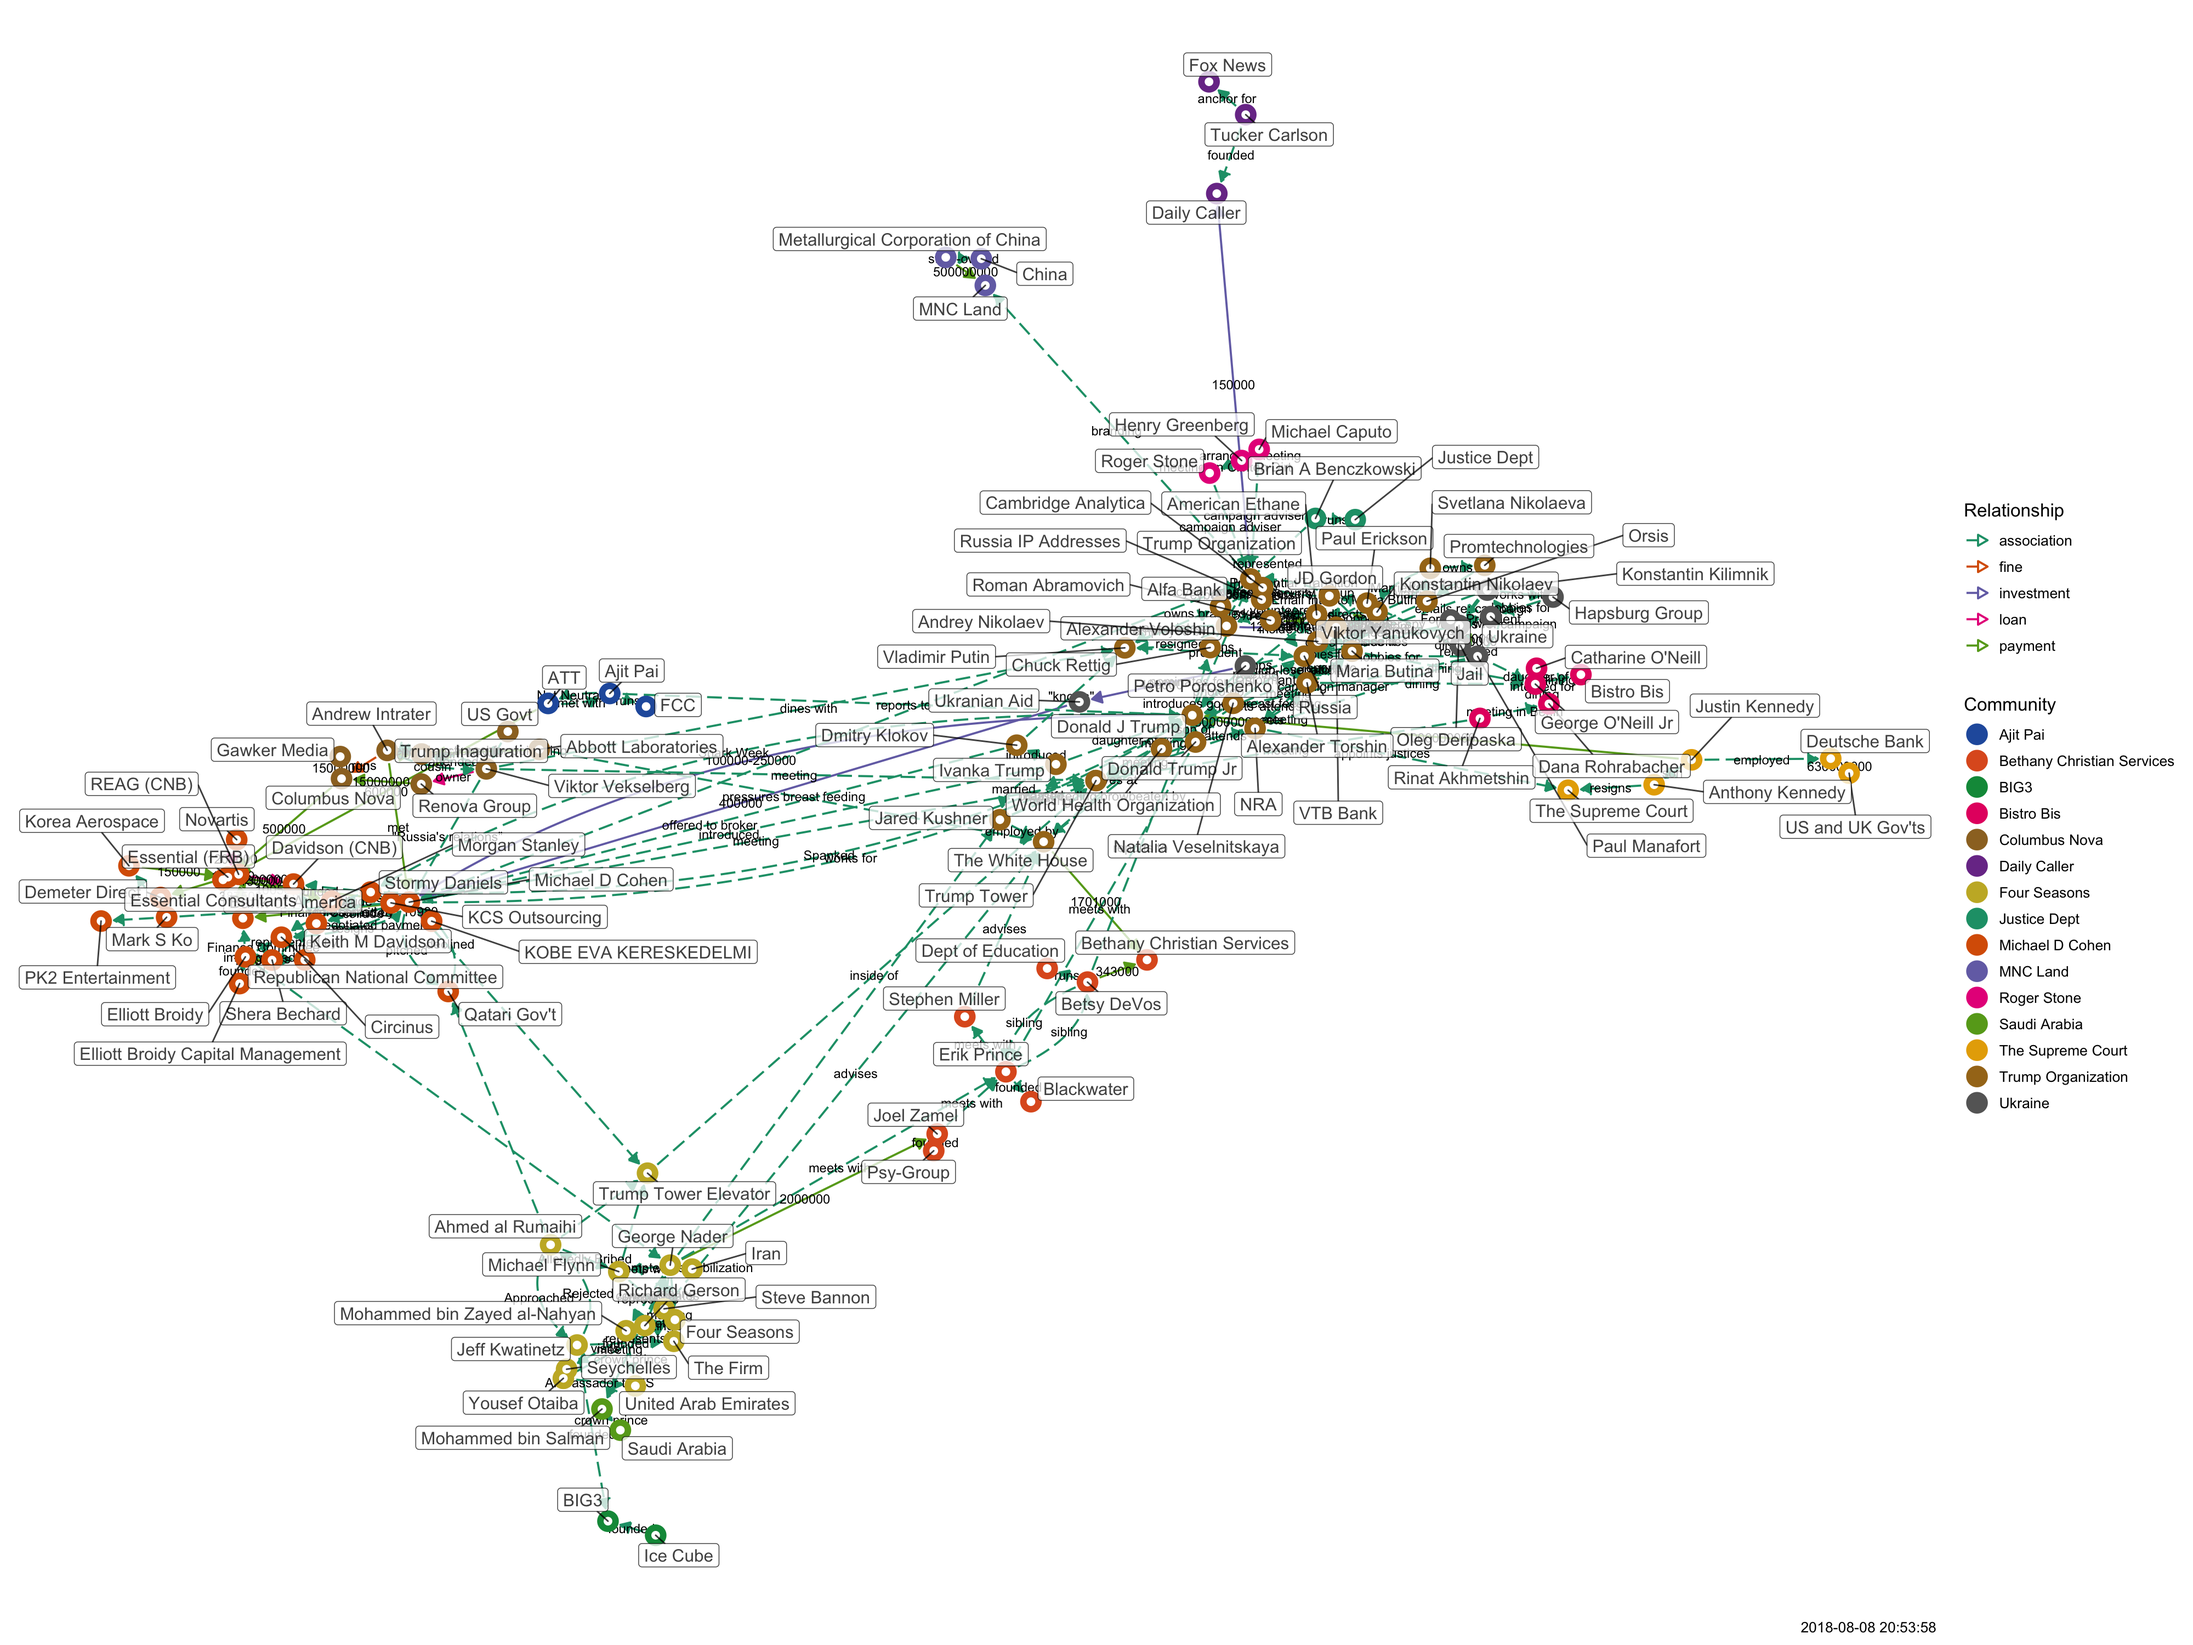
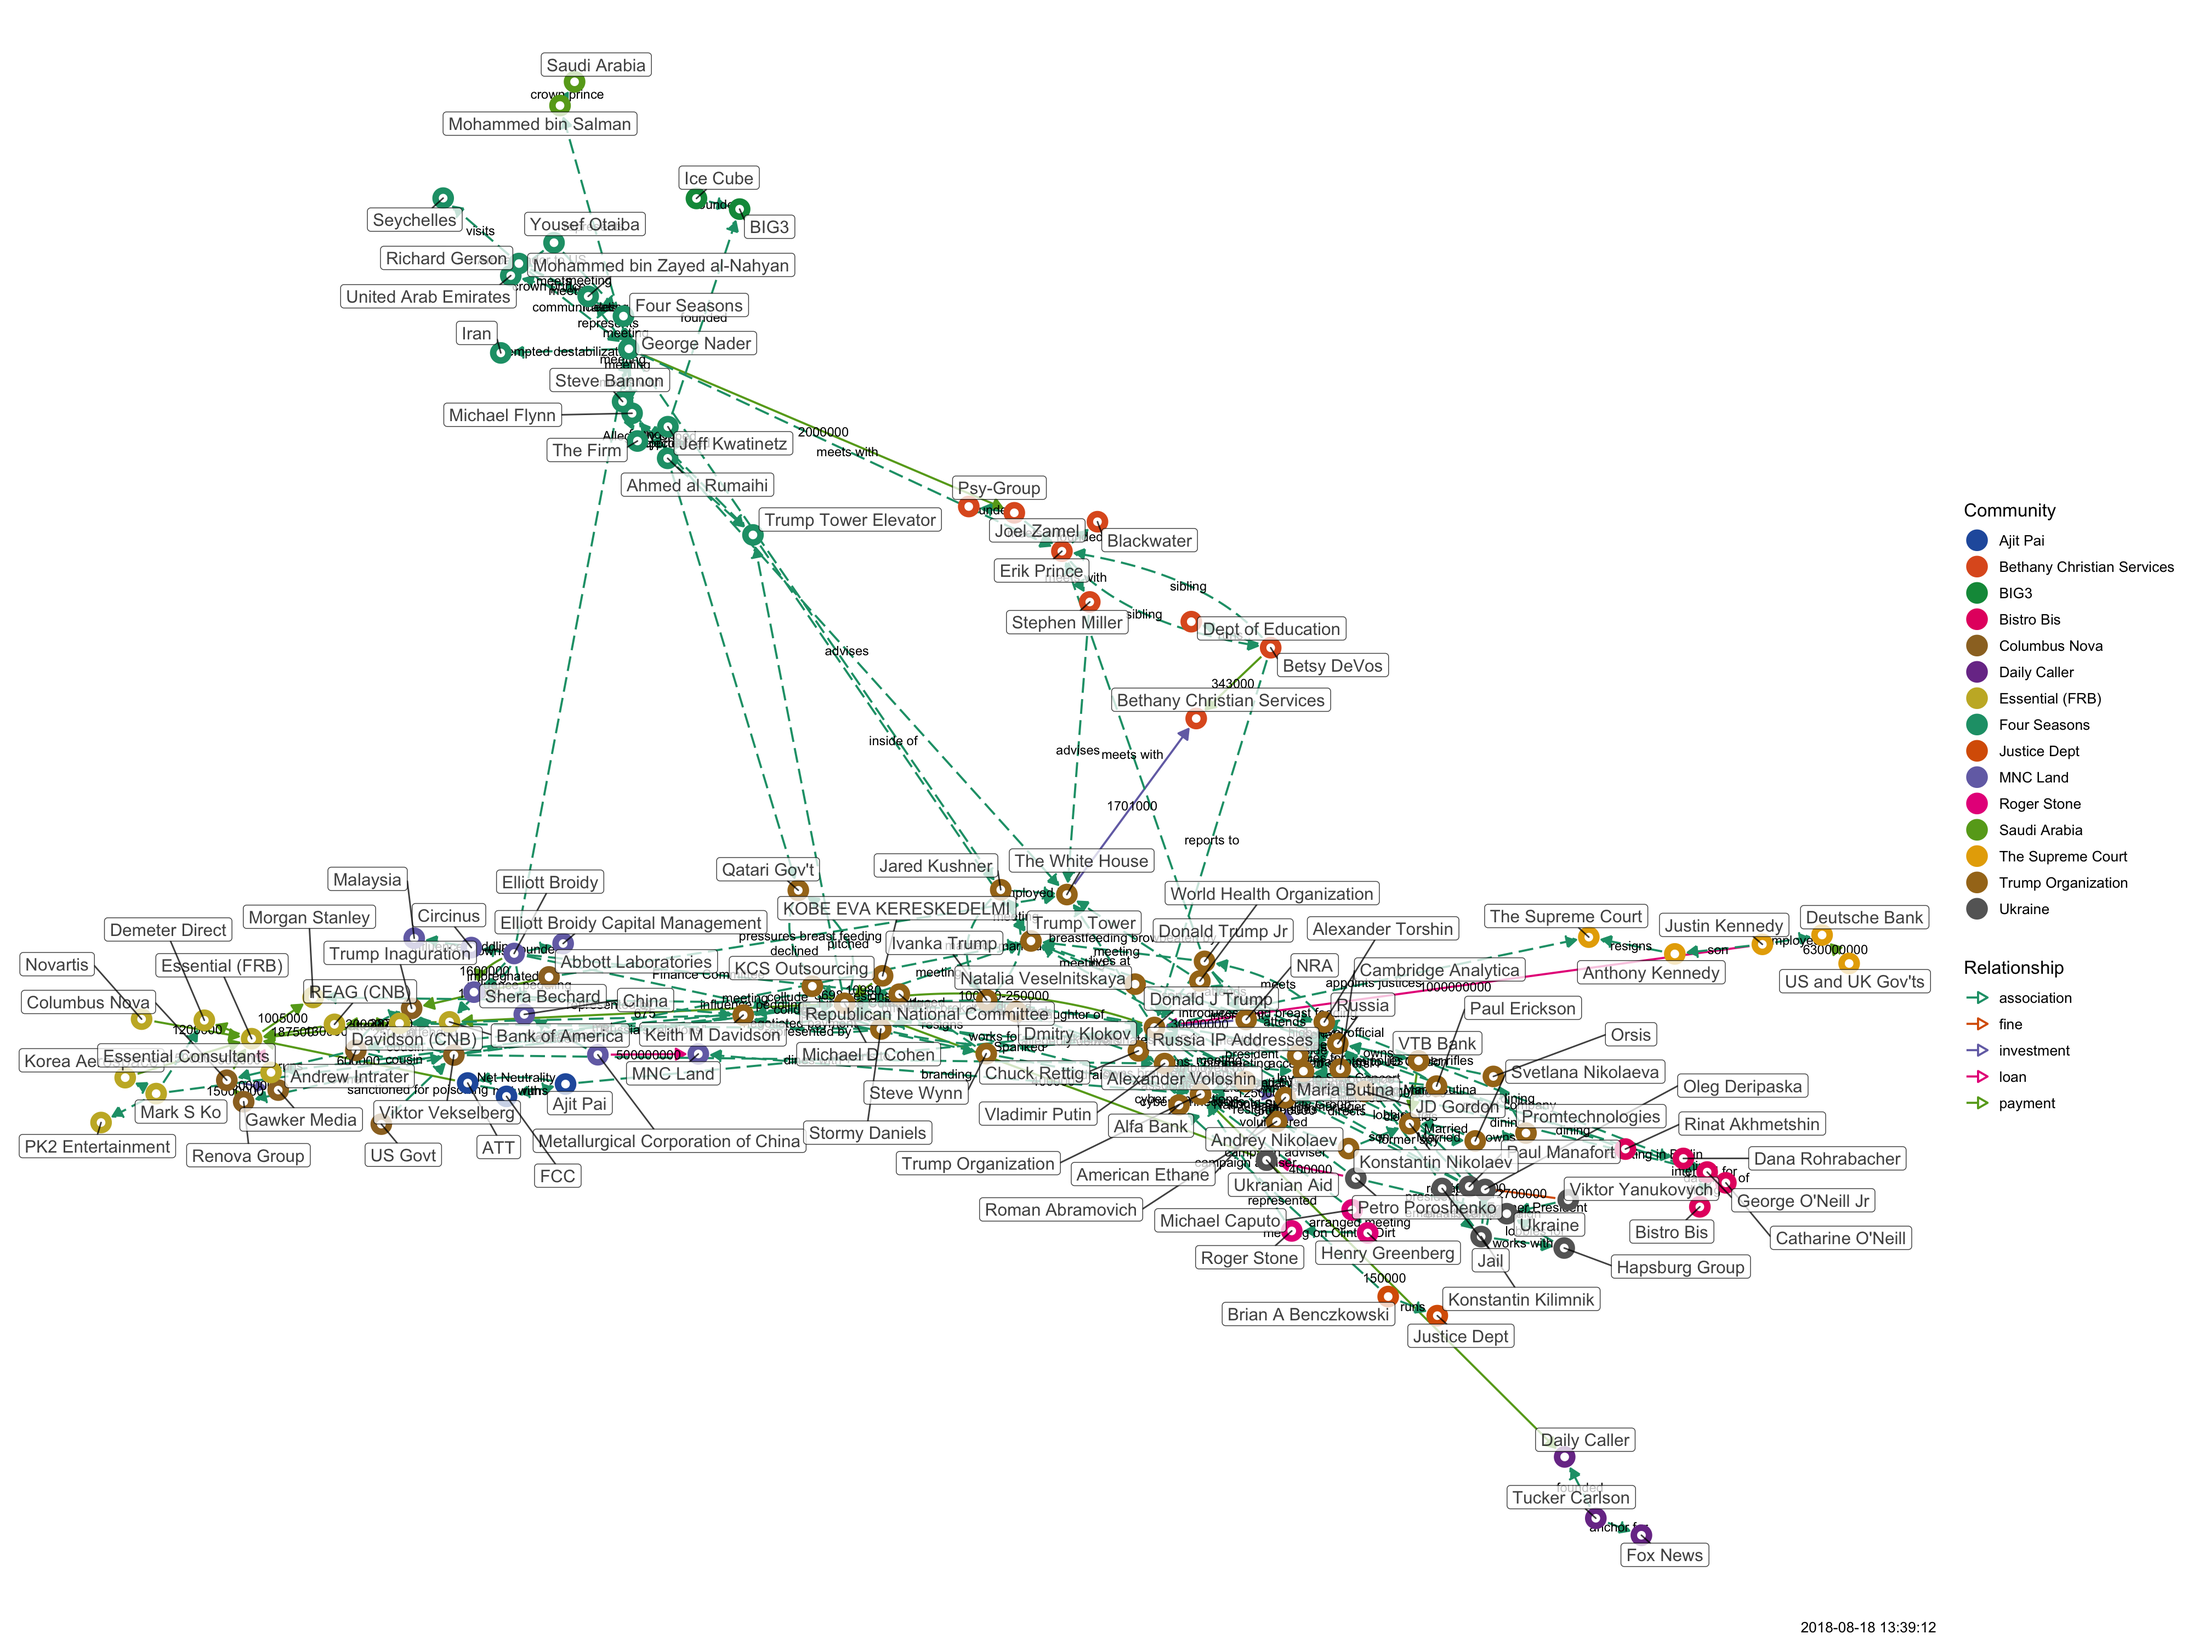
updated

diff --git a/docs/tangled-d3.html b/docs/tangled-d3.html
@@ -1143,11 +1143,11 @@ return function(){for(var n=0,e=0;e<t;++e)n+=Math.random();return n}},um=functio
 </head>
 <body style="background-color: white;">
 <div id="htmlwidget_container">
-<div id="htmlwidget-4a8c3ca96cf07145a3a7" class="forceNetwork html-widget" style="width:960px;height:500px;">
+<div id="htmlwidget-34fe78354e5b1a739de4" class="forceNetwork html-widget" style="width:960px;height:500px;">
 
 </div>
 </div>
-<script type="application/json" data-for="htmlwidget-4a8c3ca96cf07145a3a7">{"x":{"links":{"source":[0,1,2,3,4,5,6,6,7,8,9,9,9,10,11,12,13,14,15,16,17,18,19,20,21,21,22,23,24,25,26,27,28,29,9,16,2,2,30,2,30,30,2,31,16,32,33,33,30,8,8,8,8,16,7,7,33,16,16,34,34,34,34,7,16,35,36,36,37,38,37,37,39,36,36,40,40,40,3,39,8,10,10,41,41,42,42,16,43,44,44,10,45,46,47,10,10,48,49,47,50,46,10,10,45,47,5,5,5,25,15,20,20,16,30,30,51,52,52,52,52,10,49,35,39,53,53,42,42,54,54,33,33,16,32,55,56,55,57,58,57,55,57,57,45,41,59,60,60,28,19,57,55,7,61,16,62,11,11,7,0,63,64,7,1,1,65,23,66,66,58,67,25,68,69,69,70,7,70,70,71,70,72,71,45,45,71,71,71,70,73,72,74,74,59,75,8,76,32,77,77,77,72,72,77,78,78,79,79,80,81,81,78,82,64,83,84,83,85],"target":[86,65,86,9,21,87,9,88,16,76,89,90,91,46,7,16,16,9,92,4,9,7,57,26,89,9,6,65,87,93,16,94,57,78,95,95,6,16,22,30,2,86,86,30,7,89,89,32,58,96,97,98,4,91,24,33,7,25,96,90,99,16,14,25,51,51,51,37,36,100,101,100,101,43,35,3,7,102,40,24,10,39,41,24,42,41,7,43,16,93,103,47,47,47,104,49,48,105,106,50,24,107,35,108,7,5,47,109,7,92,110,7,111,112,112,16,112,113,49,10,114,114,114,114,114,114,106,16,54,16,58,32,16,32,16,56,111,57,64,64,7,64,115,112,112,112,112,112,64,111,64,55,19,61,25,96,116,62,94,116,24,24,63,65,58,58,1,65,67,117,67,25,67,25,68,64,7,70,64,71,64,72,70,45,71,18,18,64,75,75,75,75,75,73,73,118,76,32,16,70,25,25,70,77,70,70,79,78,82,64,78,25,65,80,29,84,85,25,25],"colour":["red","blue","red","red","red","red","red","blue","red","red","red","red","red","red","blue","red","red","red","blue","red","red","blue","blue","red","red","red","blue","blue","red","red","red","blue","red","blue","blue","blue","blue","blue","blue","blue","blue","blue","blue","blue","blue","blue","blue","blue","blue","blue","blue","blue","blue","blue","blue","blue","blue","blue","blue","blue","blue","blue","blue","blue","blue","blue","blue","blue","blue","blue","blue","blue","blue","blue","blue","blue","blue","blue","blue","blue","blue","blue","blue","blue","blue","blue","blue","blue","blue","blue","blue","blue","blue","blue","blue","blue","blue","blue","blue","blue","blue","blue","blue","blue","blue","blue","blue","blue","blue","blue","blue","blue","blue","blue","blue","blue","blue","blue","blue","blue","blue","blue","blue","blue","blue","blue","blue","blue","blue","blue","blue","blue","blue","blue","blue","blue","blue","blue","blue","blue","blue","blue","blue","blue","blue","blue","blue","blue","blue","blue","blue","blue","blue","blue","blue","blue","blue","blue","blue","blue","blue","blue","blue","blue","blue","blue","blue","blue","blue","blue","blue","blue","blue","blue","blue","blue","blue","blue","blue","blue","blue","blue","blue","blue","blue","blue","blue","blue","blue","blue","blue","blue","blue","blue","blue","blue","blue","blue","blue","blue","blue","blue","blue","blue","blue","blue","blue","blue","blue","blue","blue","blue","blue","blue","blue","blue","blue","blue","blue"]},"nodes":{"name":["Abbott Laboratories","Alexander Voloshin","Andrew Intrater","ATT","Bank of America","Betsy DeVos","Columbus Nova","Donald J Trump","Elliott Broidy","Essential (FRB)","George Nader","Justin Kennedy","KCS Outsourcing","KOBE EVA KERESKEDELMI","Korea Aerospace","Metallurgical Corporation of China","Michael D Cohen","Novartis","NRA","Oleg Deripaska","Petro Poroshenko","REAG (CNB)","Renova Group","Roman Abramovich","The White House","Trump Organization","Ukranian Aid","US and UK Gov'ts","Viktor Yanukovych","VTB Bank","Viktor Vekselberg","US Govt","Keith M Davidson","Stormy Daniels","Mark S Ko","Michael Flynn","Ahmed al Rumaihi","Jeff Kwatinetz","Ice Cube","Steve Bannon","Ajit Pai","Jared Kushner","Ivanka Trump","Qatari Gov't","Tucker Carlson","Donald Trump Jr","Joel Zamel","Erik Prince","Mohammed bin Salman","Mohammed bin Zayed al-Nahyan","Stephen Miller","Trump Tower Elevator","Richard Gerson","Yousef Otaiba","Dmitry Klokov","Konstantin Kilimnik","Hapsburg Group","Paul Manafort","Vladimir Putin","Rinat Akhmetshin","Natalia Veselnitskaya","Chuck Rettig","Anthony Kennedy","World Health Organization","Russia","American Ethane","Brian A Benczkowski","Alfa Bank","Cambridge Analytica","Russia IP Addresses","Maria Butina","Alexander Torshin","Paul Erickson","Dana Rohrabacher","Catharine O'Neill","George O'Neill Jr","Shera Bechard","JD Gordon","Konstantin Nikolaev","Svetlana Nikolaeva","Orsis","Andrey Nikolaev","Promtechnologies","Michael Caputo","Henry Greenberg","Roger Stone","Trump Inaguration","Bethany Christian Services","Gawker Media","Davidson (CNB)","Demeter Direct","Morgan Stanley","MNC Land","Daily Caller","Deutsche Bank","Essential Consultants","Republican National Committee","Elliott Broidy Capital Management","Circinus","PK2 Entertainment","BIG3","The Firm","FCC","Fox News","Blackwater","Saudi Arabia","United Arab Emirates","Psy-Group","Iran","Dept of Education","China","Ukraine","Trump Tower","Seychelles","Four Seasons","Jail","The Supreme Court","Justice Dept","Bistro Bis"],"group":["6","1","6","11","2","5","6","1","2","2","3","7","2","2","2","9","2","2","1","4","4","2","6","1","1","1","4","7","4","1","6","6","2","2","2","3","3","3","15","3","11","1","1","2","10","1","5","5","13","3","5","3","3","3","1","4","4","4","1","8","1","1","7","1","1","1","14","1","1","1","1","1","1","8","8","8","2","1","1","1","1","1","1","12","12","12","6","5","6","2","2","2","9","10","7","2","2","2","2","2","15","3","11","10","5","13","3","5","3","5","9","4","1","3","3","4","7","14","8"]},"options":{"NodeID":"name","Group":"group","colourScale":"d3.scaleOrdinal(d3.schemeCategory20);","fontSize":20,"fontFamily":"serif","clickTextSize":50,"linkDistance":50,"linkWidth":"function(d) { return Math.sqrt(d.value); }","charge":-100,"opacity":1,"zoom":true,"legend":false,"arrows":false,"nodesize":false,"radiusCalculation":" Math.sqrt(d.nodesize)+6","bounded":false,"opacityNoHover":1,"clickAction":null}},"evals":[],"jsHooks":[]}</script>
-<script type="application/htmlwidget-sizing" data-for="htmlwidget-4a8c3ca96cf07145a3a7">{"viewer":{"width":450,"height":350,"padding":10,"fill":true},"browser":{"width":960,"height":500,"padding":10,"fill":true}}</script>
+<script type="application/json" data-for="htmlwidget-34fe78354e5b1a739de4">{"x":{"links":{"source":[0,1,2,3,4,5,6,6,7,8,9,9,9,10,11,12,13,14,15,16,17,18,19,20,21,21,22,23,24,25,26,27,28,29,9,16,2,2,30,2,30,30,2,31,16,32,33,33,30,8,8,8,8,16,7,7,33,16,16,34,34,34,34,7,16,35,36,36,37,38,37,37,39,36,36,40,40,40,3,39,8,10,10,41,41,42,42,16,43,44,44,10,45,46,47,10,10,48,49,47,50,46,10,10,45,47,5,5,5,25,15,20,20,16,30,30,51,52,52,52,52,10,49,35,39,53,53,42,42,54,54,33,33,16,32,55,56,55,57,58,57,55,57,57,45,41,59,60,60,28,19,57,55,7,61,16,62,11,11,7,0,63,64,7,1,1,65,23,66,66,58,67,25,68,69,69,70,7,70,70,71,70,72,71,45,45,71,71,71,70,73,72,74,74,59,75,8,76,32,77,77,77,72,72,77,78,78,79,79,80,81,81,78,82,64,83,84,83,85,8,8,8,86,86,86],"target":[87,65,87,9,21,88,9,89,16,76,90,91,92,46,7,16,16,9,93,4,9,7,57,26,90,9,6,65,88,94,16,95,57,78,96,96,6,16,22,30,2,87,87,30,7,90,90,32,58,97,98,99,4,92,24,33,7,25,97,91,100,16,14,25,51,51,51,37,36,101,102,101,102,43,35,3,7,103,40,24,10,39,41,24,42,41,7,43,16,94,104,47,47,47,105,49,48,106,107,50,24,108,35,109,7,5,47,110,7,93,111,7,112,113,113,16,113,114,49,10,115,115,115,115,115,115,107,16,54,16,58,32,16,32,16,56,112,57,64,64,7,64,116,113,113,113,113,113,64,112,64,55,19,61,25,97,117,62,95,117,24,24,63,65,58,58,1,65,67,118,67,25,67,25,68,64,7,70,64,71,64,72,70,45,71,18,18,64,75,75,75,75,75,73,73,119,76,32,16,70,25,25,70,77,70,70,79,78,82,64,78,25,65,80,29,84,85,25,25,111,120,86,25,7,97],"colour":["red","blue","red","red","red","red","red","blue","red","red","red","red","red","red","blue","red","red","red","blue","red","red","blue","blue","red","red","red","blue","blue","red","red","red","blue","red","blue","blue","blue","blue","blue","blue","blue","blue","blue","blue","blue","blue","blue","blue","blue","blue","blue","blue","blue","blue","blue","blue","blue","blue","blue","blue","blue","blue","blue","blue","blue","blue","blue","blue","blue","blue","blue","blue","blue","blue","blue","blue","blue","blue","blue","blue","blue","blue","blue","blue","blue","blue","blue","blue","blue","blue","blue","blue","blue","blue","blue","blue","blue","blue","blue","blue","blue","blue","blue","blue","blue","blue","blue","blue","blue","blue","blue","blue","blue","blue","blue","blue","blue","blue","blue","blue","blue","blue","blue","blue","blue","blue","blue","blue","blue","blue","blue","blue","blue","blue","blue","blue","blue","blue","blue","blue","blue","blue","blue","blue","blue","blue","blue","blue","blue","blue","blue","blue","blue","blue","blue","blue","blue","blue","blue","blue","blue","blue","blue","blue","blue","blue","blue","blue","blue","blue","blue","blue","blue","blue","blue","blue","blue","blue","blue","blue","blue","blue","blue","blue","blue","blue","blue","blue","blue","blue","blue","blue","blue","blue","blue","blue","blue","blue","blue","blue","blue","blue","blue","blue","blue","blue","blue","blue","blue","blue","blue","blue","blue","blue","blue","blue","blue","blue","blue","blue","blue","blue","blue","blue","blue","blue"]},"nodes":{"name":["Abbott Laboratories","Alexander Voloshin","Andrew Intrater","ATT","Bank of America","Betsy DeVos","Columbus Nova","Donald J Trump","Elliott Broidy","Essential (FRB)","George Nader","Justin Kennedy","KCS Outsourcing","KOBE EVA KERESKEDELMI","Korea Aerospace","Metallurgical Corporation of China","Michael D Cohen","Novartis","NRA","Oleg Deripaska","Petro Poroshenko","REAG (CNB)","Renova Group","Roman Abramovich","The White House","Trump Organization","Ukranian Aid","US and UK Gov'ts","Viktor Yanukovych","VTB Bank","Viktor Vekselberg","US Govt","Keith M Davidson","Stormy Daniels","Mark S Ko","Michael Flynn","Ahmed al Rumaihi","Jeff Kwatinetz","Ice Cube","Steve Bannon","Ajit Pai","Jared Kushner","Ivanka Trump","Qatari Gov't","Tucker Carlson","Donald Trump Jr","Joel Zamel","Erik Prince","Mohammed bin Salman","Mohammed bin Zayed al-Nahyan","Stephen Miller","Trump Tower Elevator","Richard Gerson","Yousef Otaiba","Dmitry Klokov","Konstantin Kilimnik","Hapsburg Group","Paul Manafort","Vladimir Putin","Rinat Akhmetshin","Natalia Veselnitskaya","Chuck Rettig","Anthony Kennedy","World Health Organization","Russia","American Ethane","Brian A Benczkowski","Alfa Bank","Cambridge Analytica","Russia IP Addresses","Maria Butina","Alexander Torshin","Paul Erickson","Dana Rohrabacher","Catharine O'Neill","George O'Neill Jr","Shera Bechard","JD Gordon","Konstantin Nikolaev","Svetlana Nikolaeva","Orsis","Andrey Nikolaev","Promtechnologies","Michael Caputo","Henry Greenberg","Roger Stone","Steve Wynn","Trump Inaguration","Bethany Christian Services","Gawker Media","Davidson (CNB)","Demeter Direct","Morgan Stanley","MNC Land","Daily Caller","Deutsche Bank","Essential Consultants","Republican National Committee","Elliott Broidy Capital Management","Circinus","PK2 Entertainment","BIG3","The Firm","FCC","Fox News","Blackwater","Saudi Arabia","United Arab Emirates","Psy-Group","Iran","Dept of Education","China","Ukraine","Trump Tower","Seychelles","Four Seasons","Jail","The Supreme Court","Justice Dept","Bistro Bis","Malaysia"],"group":["7","1","7","11","3","6","7","1","5","3","2","8","1","1","3","5","1","3","1","4","4","3","7","1","1","1","4","8","4","1","7","7","1","1","3","2","2","2","15","2","11","1","1","1","10","1","6","6","13","2","6","2","2","2","1","4","4","4","1","9","1","1","8","1","1","1","14","1","1","1","1","1","1","9","9","9","5","1","1","1","1","1","1","12","12","12","1","7","6","7","3","3","3","5","10","8","3","1","5","5","3","15","2","11","10","6","13","2","6","2","6","5","4","1","2","2","4","8","14","9","5"]},"options":{"NodeID":"name","Group":"group","colourScale":"d3.scaleOrdinal(d3.schemeCategory20);","fontSize":20,"fontFamily":"serif","clickTextSize":50,"linkDistance":50,"linkWidth":"function(d) { return Math.sqrt(d.value); }","charge":-100,"opacity":1,"zoom":true,"legend":false,"arrows":false,"nodesize":false,"radiusCalculation":" Math.sqrt(d.nodesize)+6","bounded":false,"opacityNoHover":1,"clickAction":null}},"evals":[],"jsHooks":[]}</script>
+<script type="application/htmlwidget-sizing" data-for="htmlwidget-34fe78354e5b1a739de4">{"viewer":{"width":450,"height":350,"padding":10,"fill":true},"browser":{"width":960,"height":500,"padding":10,"fill":true}}</script>
 </body>
 </html>
